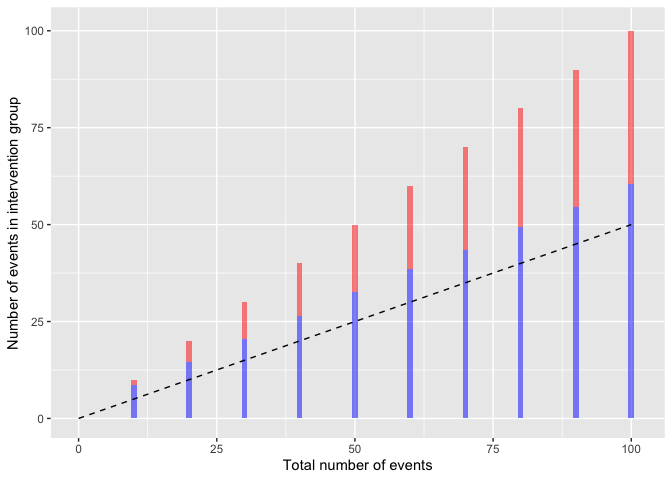
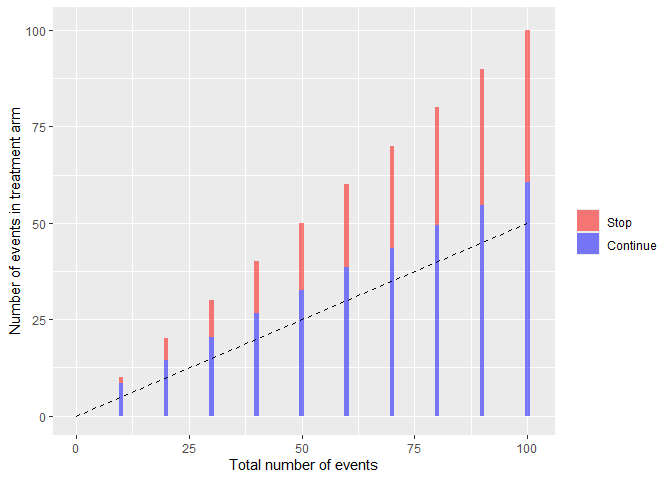
Renaming and legend
rename option totalAlpha to alpha_total
rename group to arm
rename intervention to treatment
add legend to harmboundPlot

diff --git a/README.md b/README.md
@@ -24,13 +24,12 @@ library(harmBounds)
 ### Stopping boundaries
 
 ``` r
-hb<-getHarmBound(nevents = seq(10, 100, by = 10), alpha_test = 0.025, pH0 = 0.5, maxevents = 150)
+hb<-getHarmBound(nevents = seq(10, 100, by = 10), alpha_test = 0.025, pH0 = 0.5,
+  maxevents = 150)
 plot(hb)
 ```
 
 <img src="man/figures/README-unnamed-chunk-4-1.png" alt="" width="100%" />
-
-### Operating characteristics
 
 Stopping probabilities and expected number of events can be obtained for
 alternative scenarios.

diff --git a/NEWS.md b/NEWS.md
@@ -1,3 +1,10 @@
+harmBounds 1.2.0
+------------------
+rename option totalAlpha to alpha_total
+use arm instead of group
+add legend to harmboundPlot
+rename events_intervention to events_treatment in harmBound list
+
 harmBounds 1.1.0
 ------------------
 allow setting of totalAlpha or power in getHarmBound
